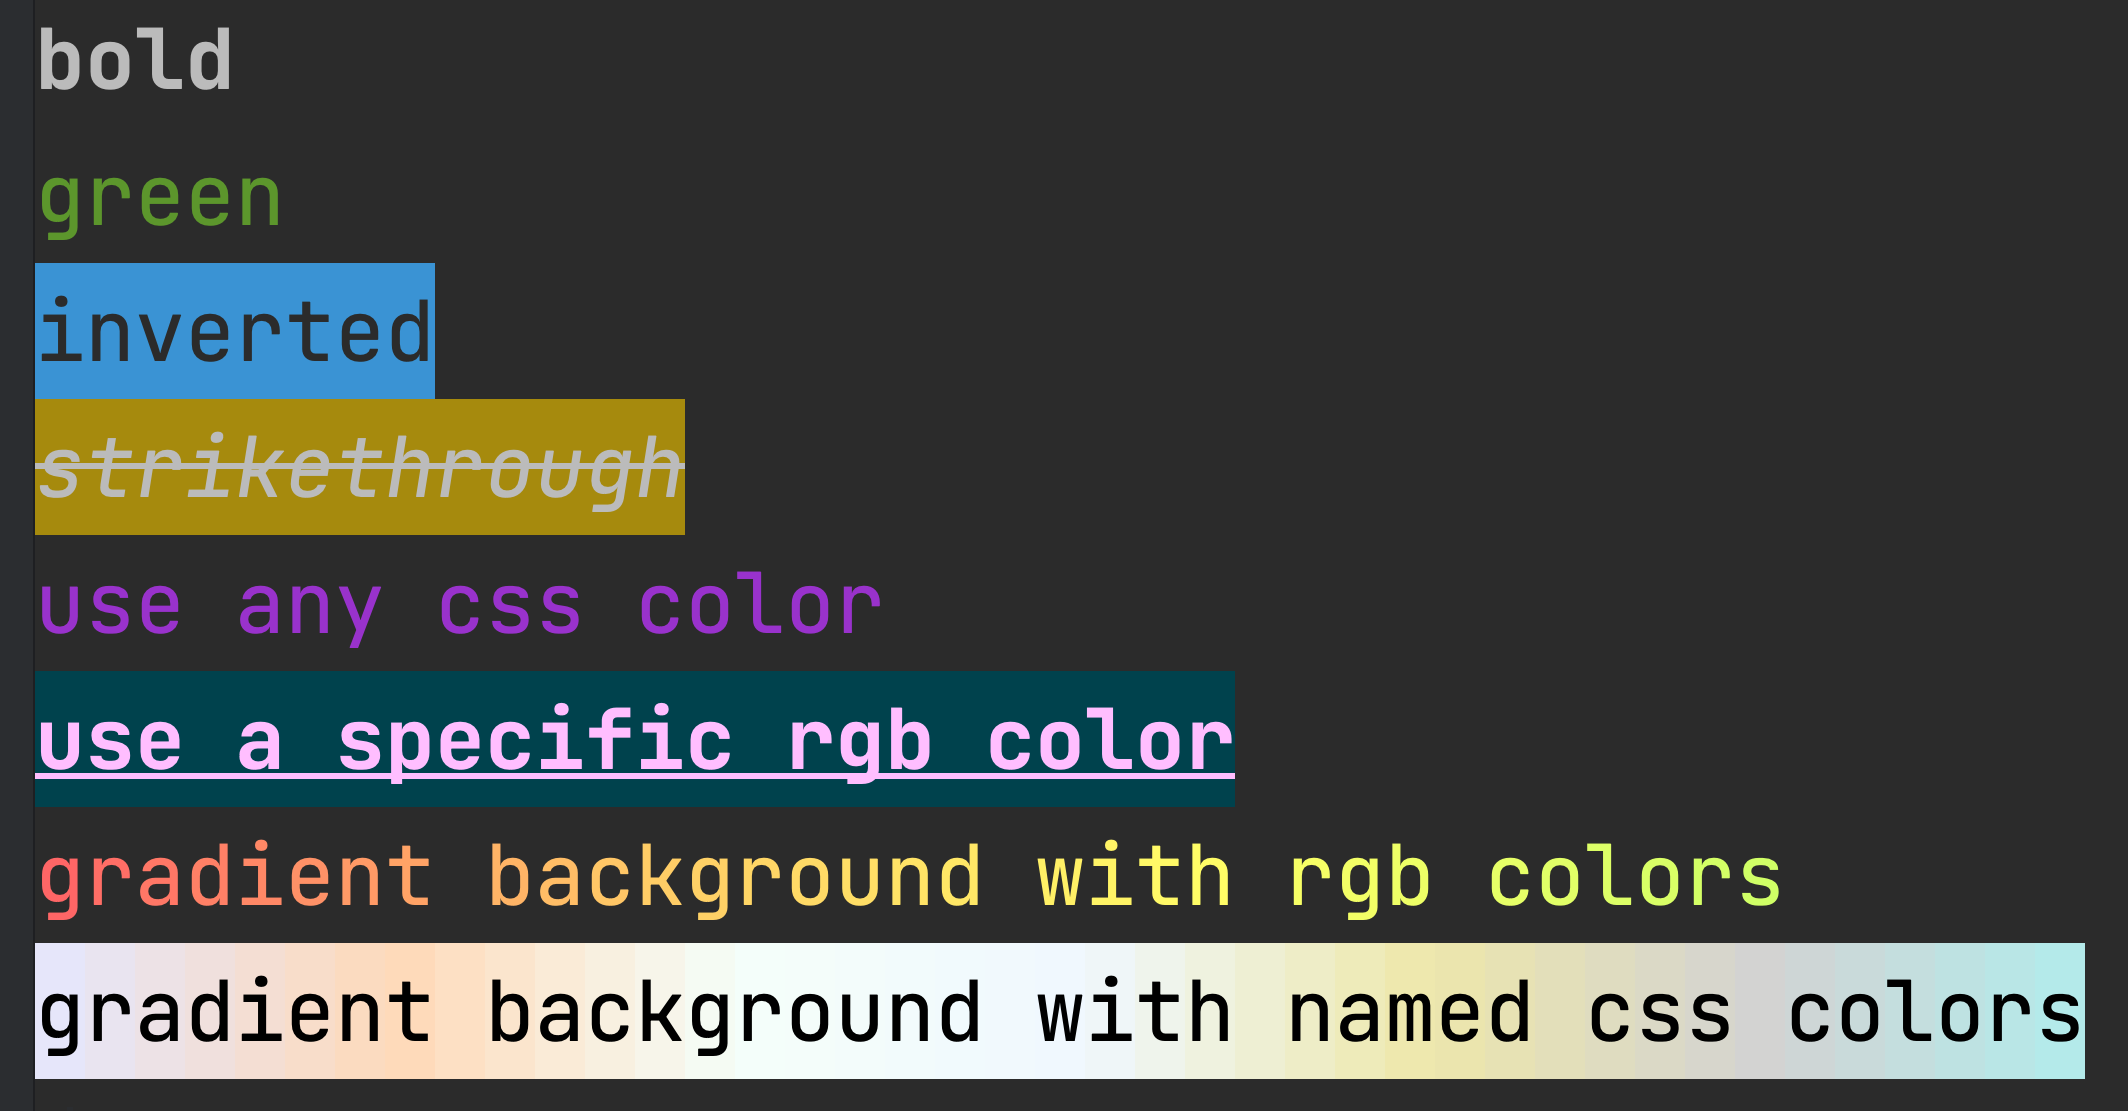
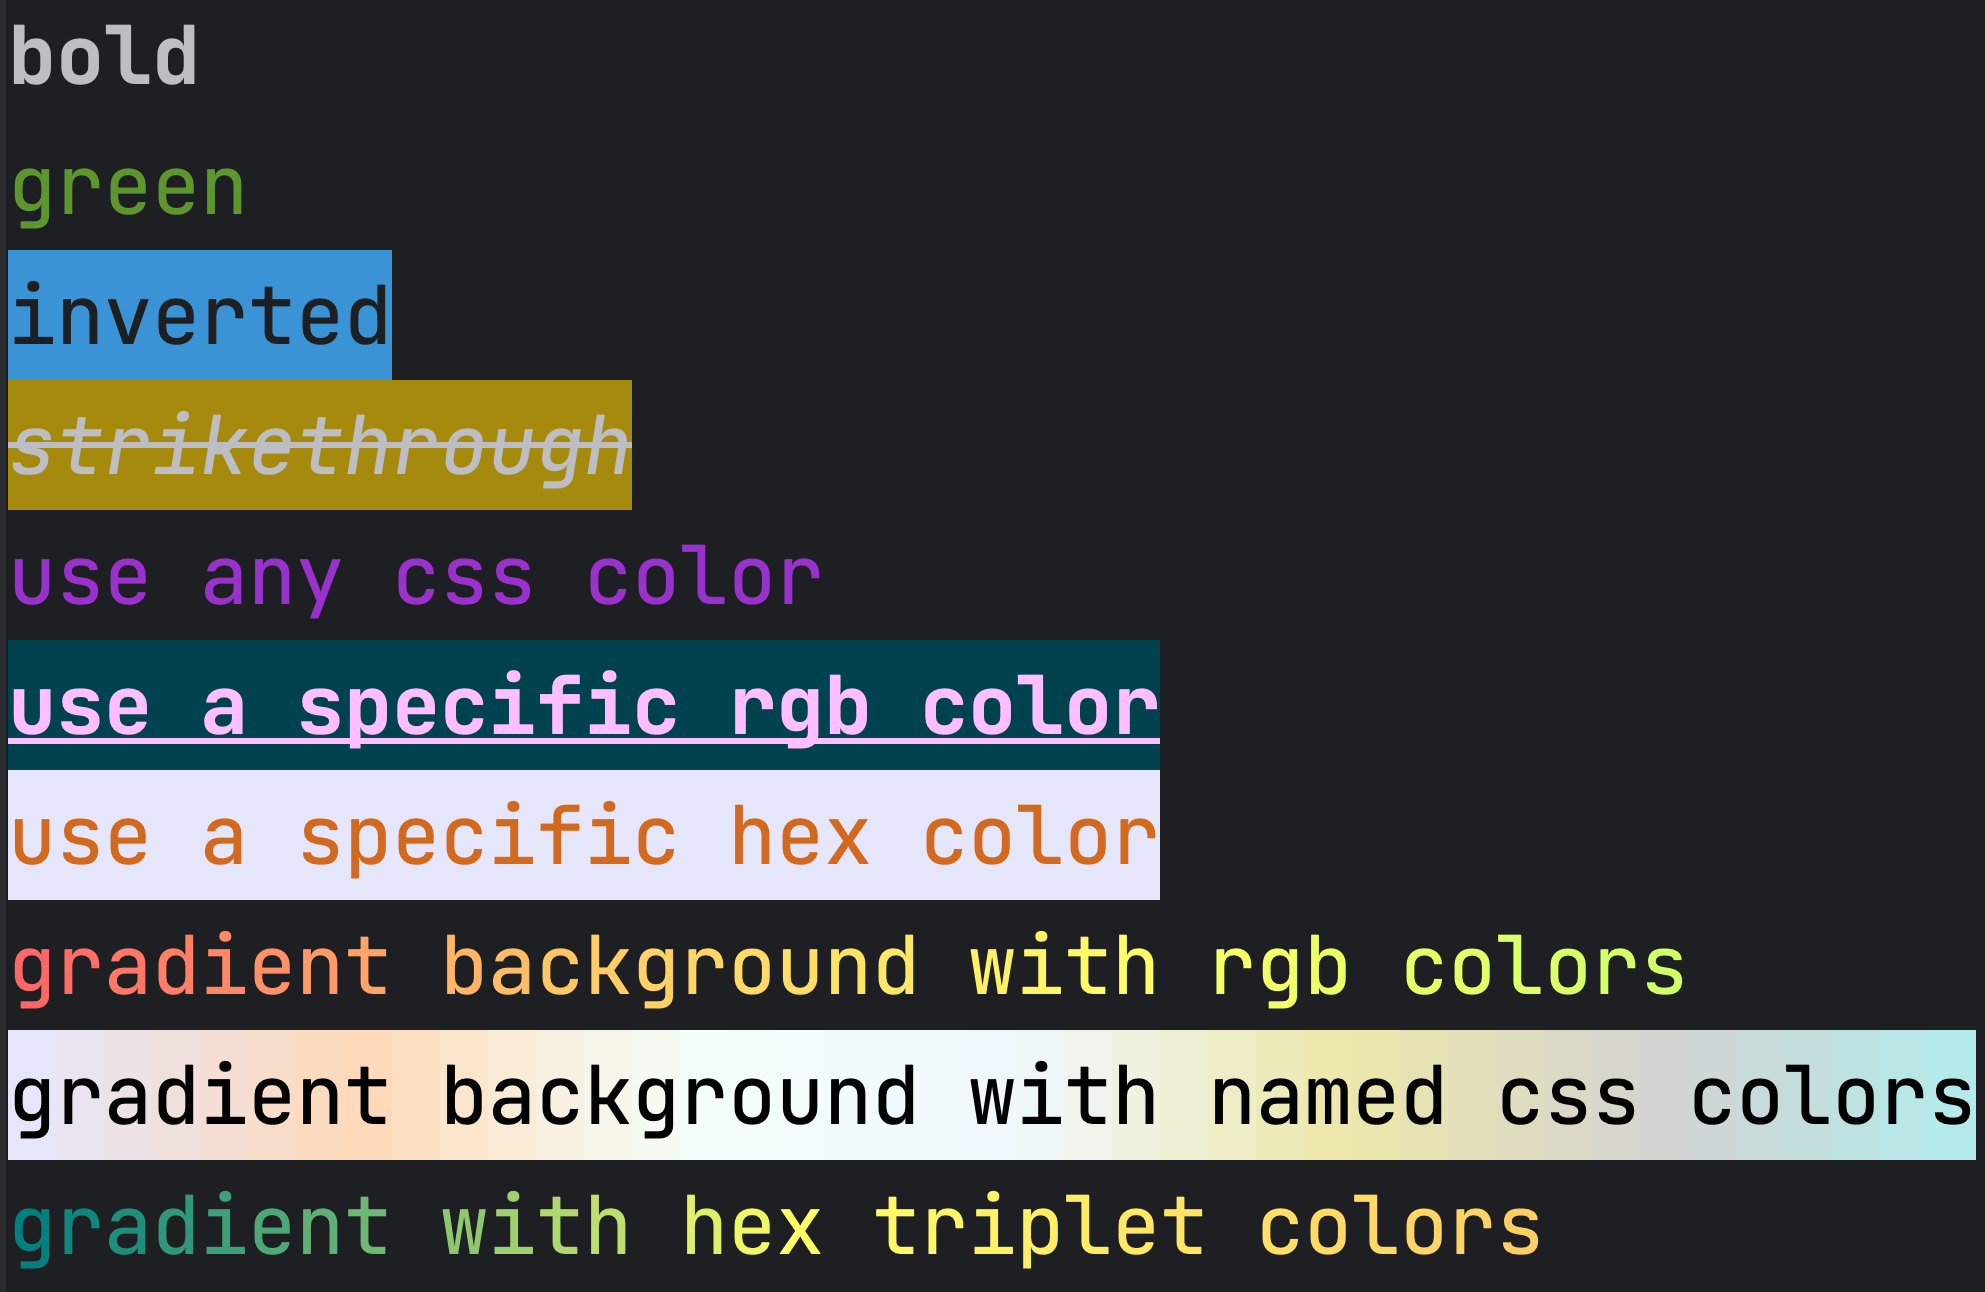
add support for hex triplet

diff --git a/README.md b/README.md
@@ -21,44 +21,53 @@ libraryDependencies += "io.github.ranyitz" %% "brush" % "0.1.0"
 ## Usage
 To start styling your terminal strings, simply import `brush._` in your Scala file:
 
-
 ```scala
 import brush._
  
 println("bold".bold)
-println("green".green)
-println("inverted".blue.inverse)
-println("strikethrough".bgYellow.italic.strikethrough)
-println("use any css color".color("darkorchid"))
-println(
-"use a specific rgb color"
-    .bgRgb(0, 66, 77)
-    .rgb(255, 190, 255)
-    .bold
-    .underline,
-)
-println(
-"gradient background with rgb colors"
-    .gradient(
-    (255, 102, 102), // Red
-    (255, 204, 102), // Orange
-    (255, 255, 102), // Yellow
-    (204, 255, 102), // Green
-    ),
-)
-println(
-"gradient background with named css colors"
-    .bgGradient(
-    "lavender",
-    "peachpuff",
-    "mintcream",
-    "aliceblue",
-    "palegoldenrod",
-    "lightgray",
-    "paleturquoise",
-    )
-    .black,
-)
+  println("green".green)
+  println("inverted".blue.inverse)
+  println("strikethrough".bgYellow.italic.strikethrough)
+  println("use any css color".color("darkorchid"))
+  println(
+    "use a specific rgb color"
+      .bgRgb(0, 66, 77)
+      .rgb(255, 190, 255)
+      .bold
+      .underline
+  )
+  println("use a specific hex color".hex("#D2691E").bgHex("#E6E6FA"))
+  println(
+    "gradient background with rgb colors"
+      .gradient(
+        (255, 102, 102), // Red
+        (255, 204, 102), // Orange
+        (255, 255, 102), // Yellow
+        (204, 255, 102) // Green
+      )
+  )
+  println(
+    "gradient background with named css colors"
+      .bgGradient(
+        "lavender",
+        "peachpuff",
+        "mintcream",
+        "aliceblue",
+        "palegoldenrod",
+        "lightgray",
+        "paleturquoise"
+      )
+      .black
+  )
+  println(
+    "gradient with hex triplet colors"
+      .gradient(
+        "#008080", // Teal
+        "#FFFF66", // Yellow
+        "#FFCC66" // Orange
+      )
+      .black
+  )
 ```
 
 ### Text Modifiers
@@ -103,6 +112,33 @@ println("(70, 130, 180)".bgCss("steelblue"))
 ```
 
 For a complete list of available colors, refer to the [full named colors list](https://developer.mozilla.org/en-US/docs/Web/CSS/named-color)
+
+### Hex Triplet Colors
+
+* `hex` - choose a color by providing a [hex triplet](https://en.wikipedia.org/wiki/Web_colors#Hex_triplet).
+* `bgHex` - same as hex, but for background colors.
+
+```scala
+println("Yellow Green".hex("#9acd32"))
+println("Steel Blue".bgHex("#4682b4"))
+```
+
+### Gradients
+> Note: Gradients are only supported in terminals that support 256-colors or Truecolor.
+
+* `gradient` - apply a gradient to the text by providing a list of colors.
+* `bgGradient` - same as gradient, but for background colors.
+
+A color can be provided in any of the following formats:
+* CSS color name
+* Hex triplet
+* RGB tuple
+
+```scala
+println("Gradient".gradient("red", "orange", "yellow"))
+println("Gradient".bgGradient("#ff0000", "#ffa500", "#ffff00"))
+println("Gradient".gradient((255, 0, 0), (255, 165, 0), (255, 255, 0)))
+```
 
 ### Environment Variables
 * `NO_COLOR` - If set to any value, disables all colors.
